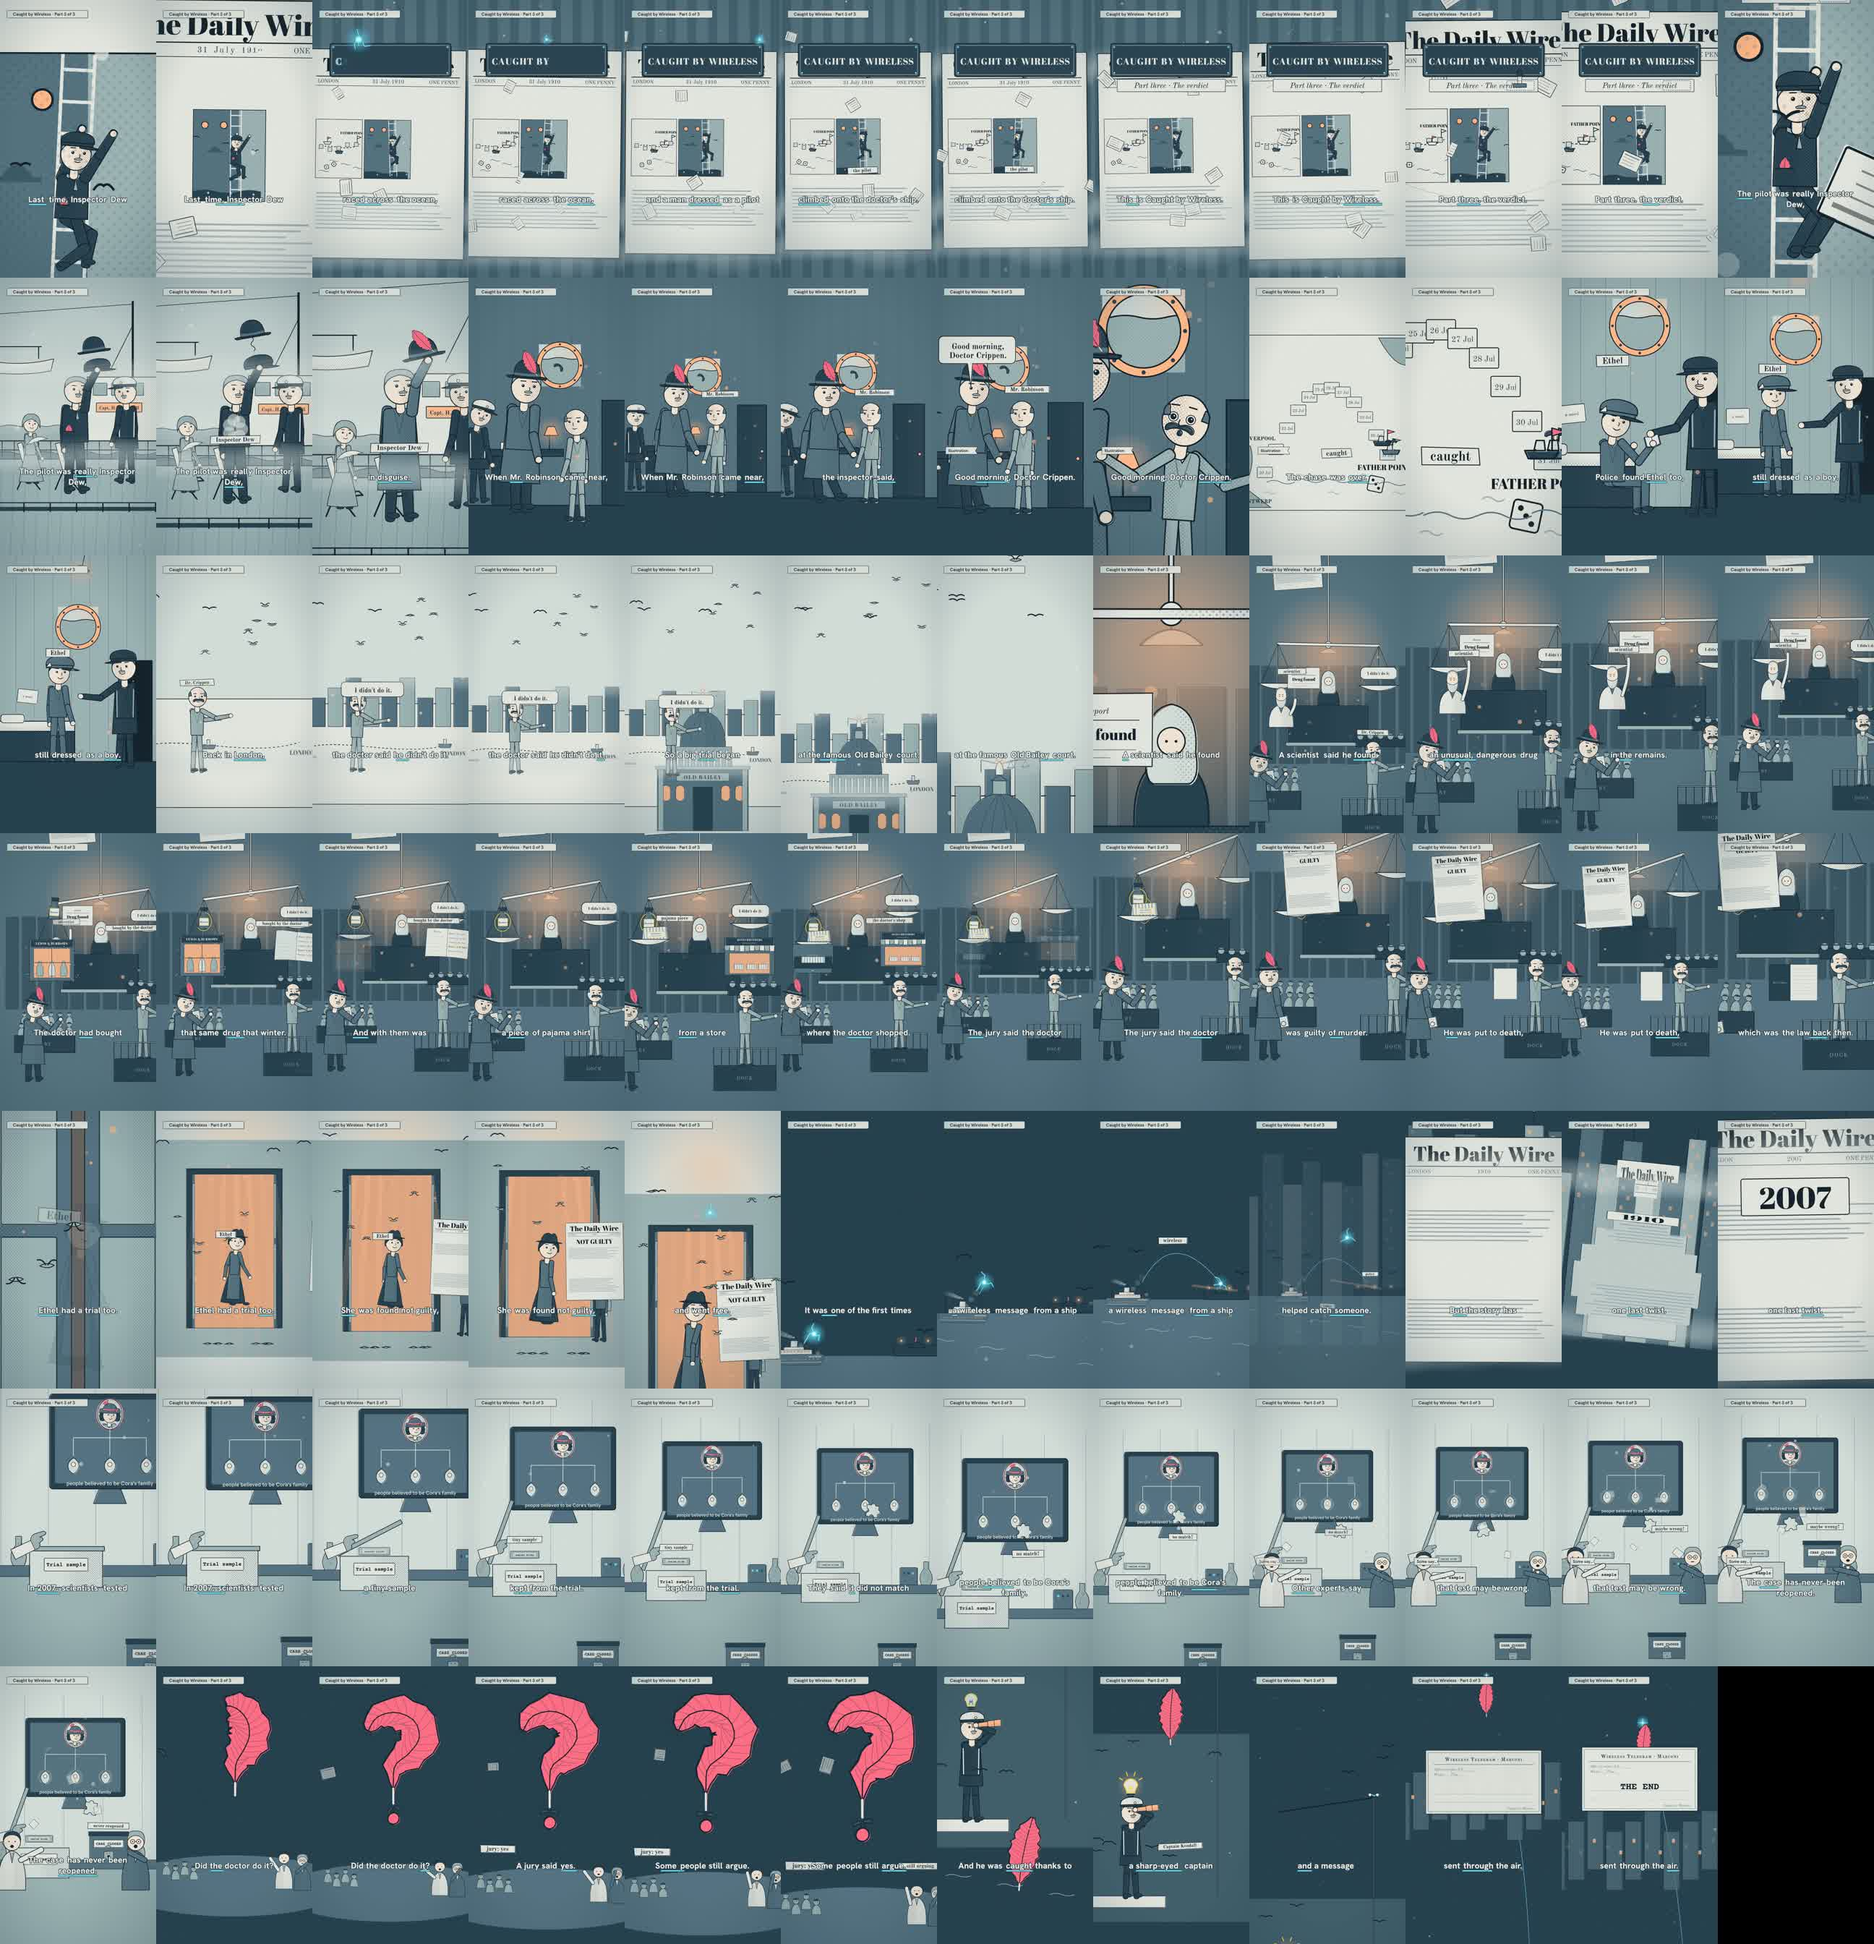
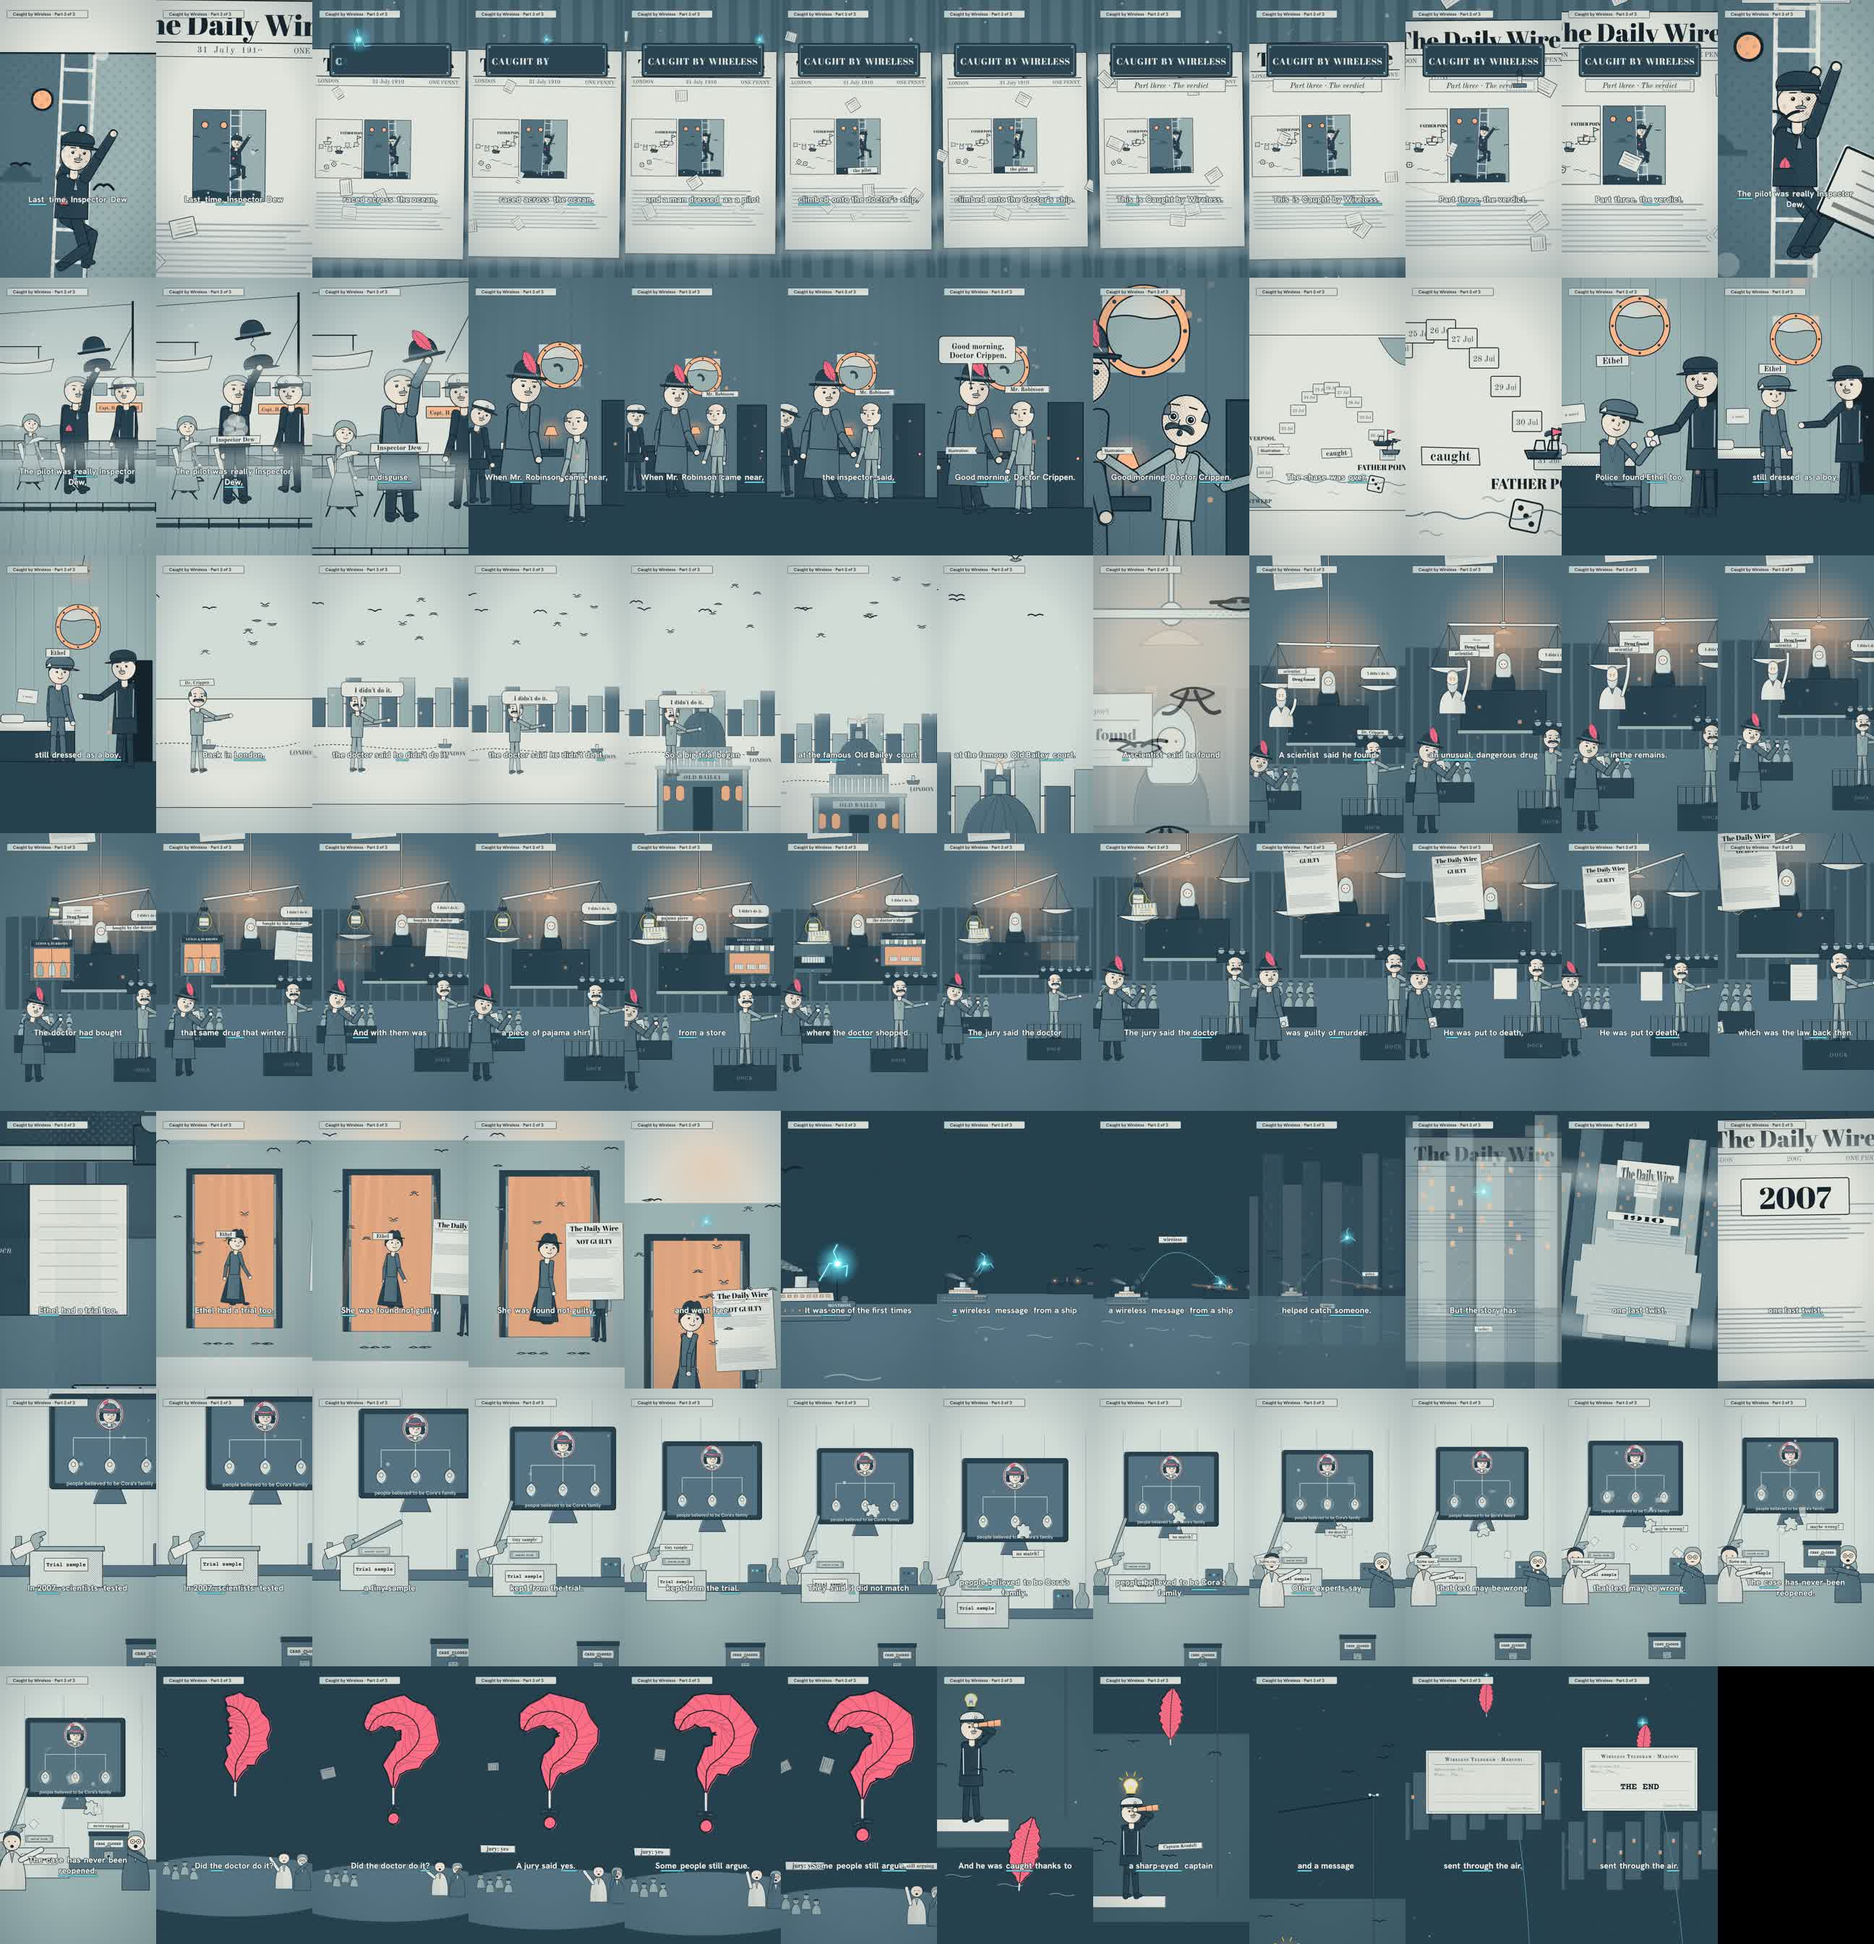
Wireless 3: v1 delivered (83.1 s, -14.1 LUFS, -1.9 dBTP); stills sheet + 3 hero stills; REPORT

diff --git a/projects/wireless-3/REPORT.md b/projects/wireless-3/REPORT.md
@@ -1,0 +1,81 @@
+# Caught by Wireless 3: "The verdict": report (2026-11-08)
+
+**Final:** `projects/wireless-3/renders/wireless-3_v1.mp4` (git-ignored; delivered in the session). 1080×1920, 30 fps,
+**83.13 s = 2494 frames** (checked on the MP4), last word 81.83 s + 1.3 s tail. **−14.1 LUFS integrated, −1.9 dBTP**
+(ebur128 on the MP4), LRA 1.6 LU (the raw TTS voice alone measures 2.5 LU; two-pass linear loudnorm + lookahead limiter).
+Voice over music in voiced windows (1–4 kHz) 7.6 dB; music up 5.1 dB in the pauses (the series' fixed music setting,
++12 dB with the same duck in all parts, kept for continuity rather than tuned to 10–12 dB).
+
+**Stills:** `stills/sheet_1fps.jpg` (1 fps contact sheet of the final), hero stills `stills/hero_recap.jpg` (3.6 s, the
+recap page + plaque), `stills/hero_arrest.jpg` (19.3 s, the Moustache lands), `stills/hero_scales.jpg` (41.8 s, the
+scales of Justice).
+
+## Checks
+- **VO:** 16/16 lines; 14 MATCH, 2 ASR spellings fixed in words.json by `film/fix_words.py` ("Dr"→"Doctor",
+  "sharp eyed"→"sharp-eyed"; the audio says the script). Line 7 carries the orchestrator's "And with them" care fix.
+- **motion_check** vs `lab/motion-bar/grand-canyon-01_q.json`: v1 median 16 vs 18, flagged 3–6, 55, 71 → v2 17, flagged 6
+  → v3 **PASS, median 18 = bar, no flagged seconds** (≤2 movers 0 %, change over 2 s 0.67 vs bar 0.36). Fixes were
+  pictures, not drift: tumbling newspaper sheets, gulls and spray inside the engraved panels, tumbling dice, quay lamps,
+  lighthouse beam and smoke at the wireless hop, papers flying out of the experts' tug, pigeons over London, a swinging
+  lamp in Ethel's cabin. (The final adds 8-frame push-through hand-offs; not re-measured.)
+- **Mute test 1** (fresh agent, 166 captions-off frames): 9 of 16 lines fully recovered; the rest partly. Fixed with
+  printed words and one picture change (table in `film/PLAN.md`). **Mute test 2** (second fresh agent, the fixed shots):
+  all fixed claims recovered; one new note (the doctor looked different in the dock) → he keeps one look from the arrest
+  on (bald, moustache, no hat) and is labelled "Dr. Crippen".
+- **Kit lint** (`film/lint_kit.sh` vs `film-kit-EXPORTS.txt`): clean.
+- Frame 0 = the brim close-up from P2's last frame, already pulling back; plaque settled by 4.0 s (kit TitlePlaque at=72);
+  end card "THE END" centred, top y 560, over the night sky, Feather tip on the star above it.
+- Temporal: per-frame YAVG; the largest jumps were at scene hand-offs (hard swaps) → replaced by push-throughs (the
+  outgoing picture, frozen on its carrier, scales up and fades over 8 frames) and a Spark-to-Spark match at 53 s.
+
+## What is synthetic / credits
+Animation made in code (Remotion, SVG). Voice: AI (Qwen3-TTS clone of the design-m2 Voice Picker voice, seed 7). Music:
+"Floating Cities" by Kevin MacLeod (incompetech.com), CC BY 4.0. Effects: the series kit's sounds (synthesized + CC0)
+and CC0 cstack-cc0 files. All cartoons of real people are illustrations.
+
+## Instagram caption (draft, not posted)
+Caught by Wireless, part 3 of 3: The verdict. 🕵📡
+Inspector Dew catches "Mr. Robinson" at sea, the Old Bailey weighs the evidence, and in 2007 a new test raised one last
+question. Did the doctor do it?
+Notes: Dew's exact words differ between the trial record and his memoir; the line shown is the shared opening. Ethel
+Le Neve was tried separately and acquitted. The 2007 DNA findings (Foran et al., J Forensic Sci, 2011) are disputed and
+do not prove innocence. The courts have never reopened the case. Scenes are illustrations, simplified from the 1910 Old
+Bailey trial record.
+Voice: AI. Music: "Floating Cities" by Kevin MacLeod (incompetech.com), licensed under CC BY 4.0.
+
+## Open issues
+- The orchestrator's continuity findings from part 1 had not arrived before the render; apply by partial re-render.
+- The recap (R4, R5 panels) was built to the pick and part 2's PLAN, not checked against part 2's committed
+  `stills/` (not on the branch at render time).
+- Voice-over-music gap 7.6 dB is below BUILD-BRIEF's ~10–12 dB because the series music level is shared; listen.
+- 30–31 s: the hand-off into the court lands briefly on a close-up of the judge/report card before pulling out.
+- The final with push-throughs was not re-run through motion_check (the preview before them passed).
+- Listen to: the clerk's stamp (9.2 s), the Moustache flutter + click (18.5–19.3 s), the scales clanks (36.6, 41.4 s),
+  GUILTY / NOT GUILTY thunks (44.2, 51.0 s), the end-card typing (81.2 s).
+
+## Skipped checks
+- Determinism double-render (stills and render came from one bundle; no randomness outside `random(seed)`).
+
+## Errors and rewrites (UTC)
+- 03:29 the orchestrator's line 7 change had already been pulled before TTS; no regeneration needed.
+- 03:39 kit snapshot adopted before READY; placeholders → kit cast/cards.
+- 03:46–03:52 three motion redesign rounds (above).
+- 03:49 deleted out/bundle while the mute render read it (grain PNG 404s); killed and re-ran.
+- 03:58 kit READY: stand-in sets/props/sounds replaced; lint hit "Layer" (template camera) → renamed ParallaxLayer.
+- 04:03 render stopped and restarted after the mute-test-2 fix; 04:10 hard swaps found in YAVG → push-through
+  hand-offs, full re-render 04:13–04:18.
+- Master: dynamic loudnorm flattened the voice → two-pass linear loudnorm.
+
+## Timeline
+See `film/PLAN.md` "Timeline". 03:23 start · 03:25 TTS · 03:33 VO aligned · 03:35 first stills · 03:39 kit snapshot
+· 03:46 motion v1 · 03:52 motion PASS · 03:55 mute test 1 · 03:58 kit READY · 04:02 mute test 2 · 04:08 first full
+render · 04:18 final render · 04:20 delivered.
+
+## Production analytics (film/analytics.py over this session's transcript)
+| Phase | Min | Responses | Tools | Edits | Still batches | Renders | Image reviews | Agents | Out tok | Errors |
+|---|---|---|---|---|---|---|---|---|---|---|
+| Setup+VO+plan | 3.0 | 26 | 28 | 1 | 1 | 0 | 0 | 0 | 11830 | 0 |
+| Build(stand-ins) | 12.8 | 42 | 39 | 8 | 1 | 0 | 1 | 0 | 67054 | 0 |
+| Kit adoption | 7.2 | 31 | 29 | 6 | 0 | 1 | 3 | 0 | 25905 | 0 |
+| Motion+mute | 14.0 | 37 | 35 | 10 | 0 | 4 | 2 | 1 | 28187 | 1 |
+| Render+deliver | 12.5 | 41 | 37 | 5 | 1 | 2 | 2 | 1 | 18558 | 2 |

diff --git a/projects/wireless-3/film/analytics.md b/projects/wireless-3/film/analytics.md
@@ -1,0 +1,7 @@
+| Phase | Min | Responses | Tools | Edits | Still batches | Renders | Image reviews | Agents | Out tok | Errors |
+|---|---|---|---|---|---|---|---|---|---|---|
+| Setup+VO+plan | 3.0 | 26 | 28 | 1 | 1 | 0 | 0 | 0 | 11830 | 0 |
+| Build(stand-ins) | 12.8 | 42 | 39 | 8 | 1 | 0 | 1 | 0 | 67054 | 0 |
+| Kit adoption | 7.2 | 31 | 29 | 6 | 0 | 1 | 3 | 0 | 25905 | 0 |
+| Motion+mute | 14.0 | 37 | 35 | 10 | 0 | 4 | 2 | 1 | 28187 | 1 |
+| Render+deliver | 12.5 | 41 | 37 | 5 | 1 | 2 | 2 | 1 | 18558 | 2 |
